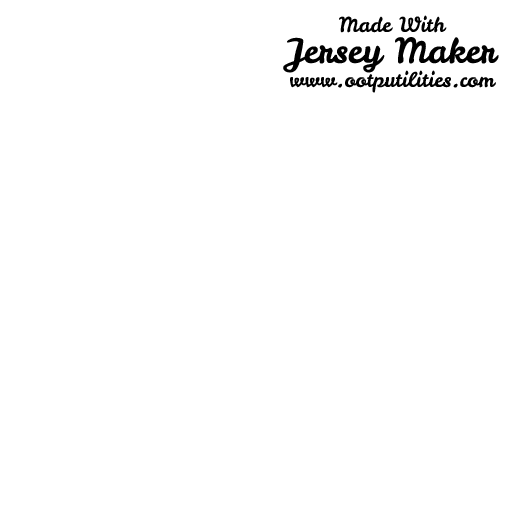
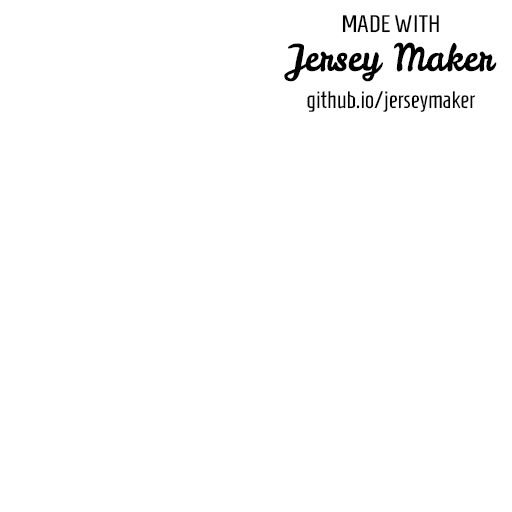
new watermark & remove base64 string

Changed region(s): [[0.5312, 0.0312, 0.9688, 0.2188]]

diff --git a/main.js b/main.js
@@ -11,7 +11,6 @@ const tempDir = os.tmpdir()
 const app2 = express()
 const port = 8080;
 const url = require('url');
[1 lines of base64/hex data omitted]
 
 const template = [
 // { role: 'appMenu' }
@@ -141,6 +140,7 @@ app2.post('/saveJersey', (req, res) => {
 			if(err) {
 				console.log(err);
 			} else {
+				var watermark = fs.readFileSync(__dirname + "\\images\\jm_watermark.png", {encoding: 'base64'});
 				var buffer = Buffer.from(watermark, 'base64');
 					Jimp.read(buffer, (err, sec_img) => {
 						if(err) {
